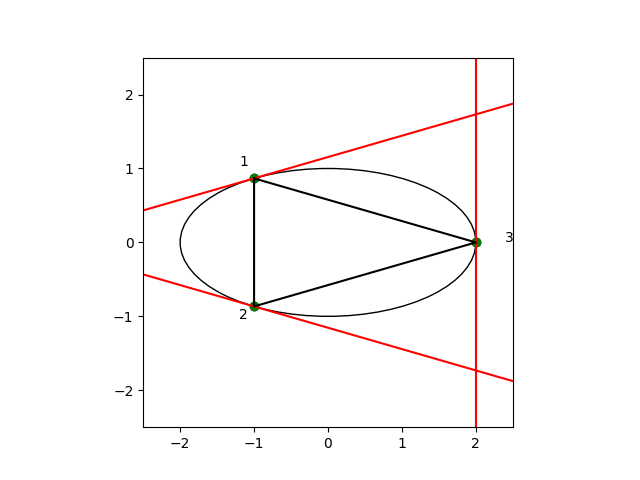
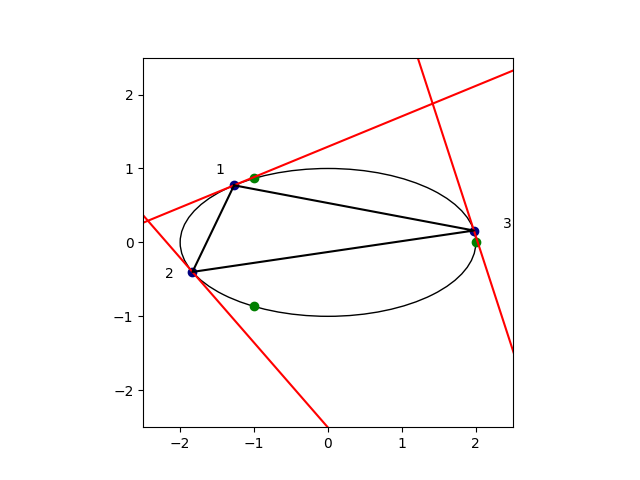
fixed angle diagnostics

diff --git a/helper.py b/helper.py
@@ -199,15 +199,25 @@ class Diagnostics:
     def reflection_angle(self, unit="rad"):
         us = self.orbit.get_u()
         tangents = self.orbit.table.tangent(self.orbit.phi).T
-        tangents = torch.roll(tangents, -1, dims=0)
 
-        print(tangents)
+        einfallswinkel = []
+        ausfallswinkel = []
 
-        einfallswinkel = angle_between(us, tangents)
-        ausfallswinkel = angle_between(tangents, torch.roll(us, -1, dims=0))
+        for i, tangent in enumerate(tangents):
+            einfallswinkel.append(angle_between(us[i-1], tangent))
+            ausfallswinkel.append(angle_between(us[i], tangent))
 
-        einfallswinkel = torch.roll(einfallswinkel, 1, dims=0)
-        ausfallswinkel = torch.roll(ausfallswinkel, 1, dims=0)
+        einfallswinkel = torch.tensor(einfallswinkel)
+        ausfallswinkel = torch.tensor(ausfallswinkel)
+
+        #fig, ax = self.orbit.plot(show=False)
+        #ax.quiver(*self.orbit.points()[0].detach().T, us[0, 0].detach(), us[0, 1].detach())
+        #ax.quiver(*self.orbit.points()[0].detach().T, us[-1, 0].detach(), us[-1, 1].detach())
+        #ax.quiver(*self.orbit.points()[0].detach().T, tangents[0, 0].detach(), tangents[0, 1].detach())
+        #plt.show()
+
+        # einfallswinkel = torch.roll(einfallswinkel, 1, dims=0)
+        # ausfallswinkel = torch.roll(ausfallswinkel, 1, dims=0)
         # ausfallswinkel = torch.roll(ausfallswinkel, 1, dims=0)
 
         if unit == "deg":
@@ -219,12 +229,14 @@ class Diagnostics:
     def reflection(self, unit="deg"):
         if self.mode == "classic":
             einfallswinkel, ausfallswinkel = self.reflection_angle(unit=unit)
-            print(einfallswinkel)
-            print(ausfallswinkel)
+
             error = torch.abs(
                 100*(einfallswinkel - ausfallswinkel)/einfallswinkel)
         elif self.mode == "inversemagnetic":
             error = torch.tensor([])
+
+        print(f"Angles of Incidence: {list(einfallswinkel)}")
+        print(f"Angles of Reflection: {list(ausfallswinkel)}")
 
         fig = plt.figure()
         fig.suptitle("Error in Reflection Law")

diff --git a/util.py b/util.py
@@ -84,11 +84,20 @@ def angle_between(v1, v2):
     v1_u = unit_vector(v1)
     v2_u = unit_vector(v2)
     if torch.is_tensor(v1):
-        sp = torch.clip((v1_u*v2_u).sum(axis=1), -1.0, 1.0)
+        if v1_u.ndim > 1:
+            sp = (v1_u*v2_u).sum(axis=1)
+        else:
+            sp = (v1_u*v2_u).sum()
 
-        return torch.arccos(sp)
+        angle = torch.arccos(sp)
+        #cross_product = np.cross(v1_u.detach(), v2_u.detach())
+        #angle[cross_product < 0] = np.pi - angle[cross_product < 0]
+
+        return angle
     else:
+        print("is not inside")
         return np.arccos(np.clip(np.dot(v1_u, v2_u), -1.0, 1.0))
+
 
 
 def pair(x, periodic=True):

diff --git a/physics.py b/physics.py
@@ -38,8 +38,12 @@ class Action:
 
         self.table = Table(a=a, b=b)
 
-        self.returnmap = ReturnMap(self.a, self.b, self.mu,
-                                   frequency=(1, 1), mode=self.mode, **self.kwargs)
+        self.returnmap = ReturnMap(self.a,
+                                   self.b,
+                                   self.mu,
+                                   frequency=(1, 1),
+                                   mode=self.mode,
+                                   **self.kwargs)
 
     def __call__(self, phi, theta):
         coordinates, center = self.returnmap(phi, theta)

diff --git a/data/generate.py b/data/generate.py
@@ -52,6 +52,9 @@ def generate_dataset(a, b, mu, n_samples, filename, cs="Birkhoff", type="ReturnM
             phi0, theta0 = angles0[0], angles0[1]
             phi0, phi2, G = action(phi0, theta0)
 
+            #print(phi0*180/np.pi, phi2*180/np.pi, G)
+            #action.returnmap.plot(phi0, theta0)
+
             if phi2 is not None and G is not None:
                 # if i%1000 == 0:
                 #    print(phi0*180/np.pi, phi2*180/np.pi)

diff --git a/dynamics.py b/dynamics.py
@@ -202,7 +202,7 @@ class Orbit:
 
         return np.array(p1s), np.array(centers)
 
-    def plot(self, img_path=None):
+    def plot(self, img_path=None, show=True):
         fig, ax = plt.subplots()
         ax.set_aspect("equal")
 
@@ -256,7 +256,10 @@ class Orbit:
         if img_path is not None:
             plt.savefig(img_path)
 
-        plt.show()
+        if show:
+            plt.show()
+
+        return fig, ax
 
 
 class ReturnMap:

diff --git a/main.py b/main.py
@@ -16,7 +16,7 @@ if __name__ == "__main__":
     type = "generatingfunction"
     subdir = "ellipse"
     
-    exec = "minimize"
+    exec = "generate"
 
     if exec == "generate":
         generate_dataset(a,
@@ -46,6 +46,6 @@ if __name__ == "__main__":
             a,
             b,
             mu,
-            n_epochs=0,
+            n_epochs=3000,
             dir="generatingfunction/custom/classic/ellipse/2023-03-08"
         )

diff --git a/setting.py b/setting.py
@@ -21,7 +21,7 @@ class Table:
         self.polygon = affinity.scale(
             Point(0, 0).buffer(1, resolution=RES_TABLE), a, b)
 
-    def get_collision(self, linestring, origin=None):
+    def get_collision(self, linestring):
         """
         Calculates the second intersection point of a straight line parametrized by its anchor p
         and a direction v with the billiard table's boundary.

diff --git a/procedures.py b/procedures.py
@@ -49,7 +49,7 @@ def minimization_procedure(a, b, mu, n_epochs=100, dir=None):
                           G_hat.model,
                           n_epochs=n_epochs,
                           frequency=frequency,
-                          exact=True)
+                          exact=False)
 
     # minimize action
     minimizer.minimize()
